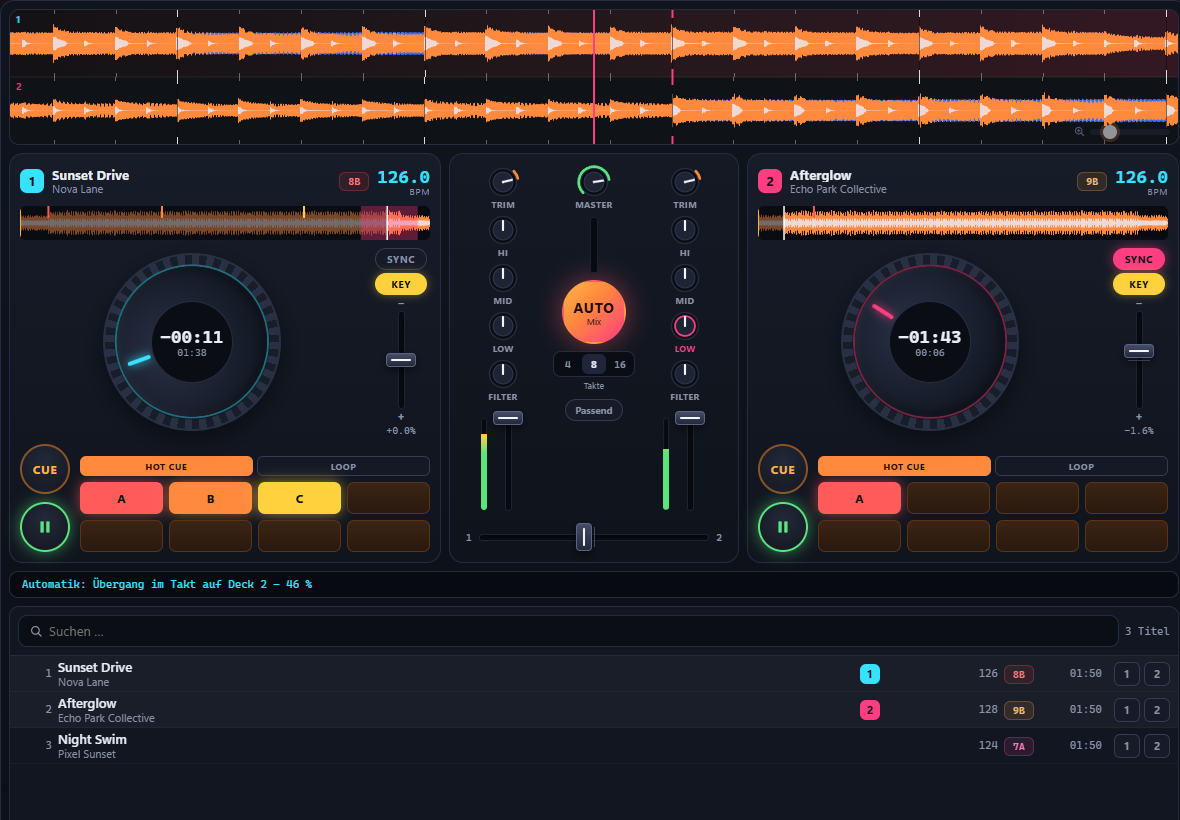
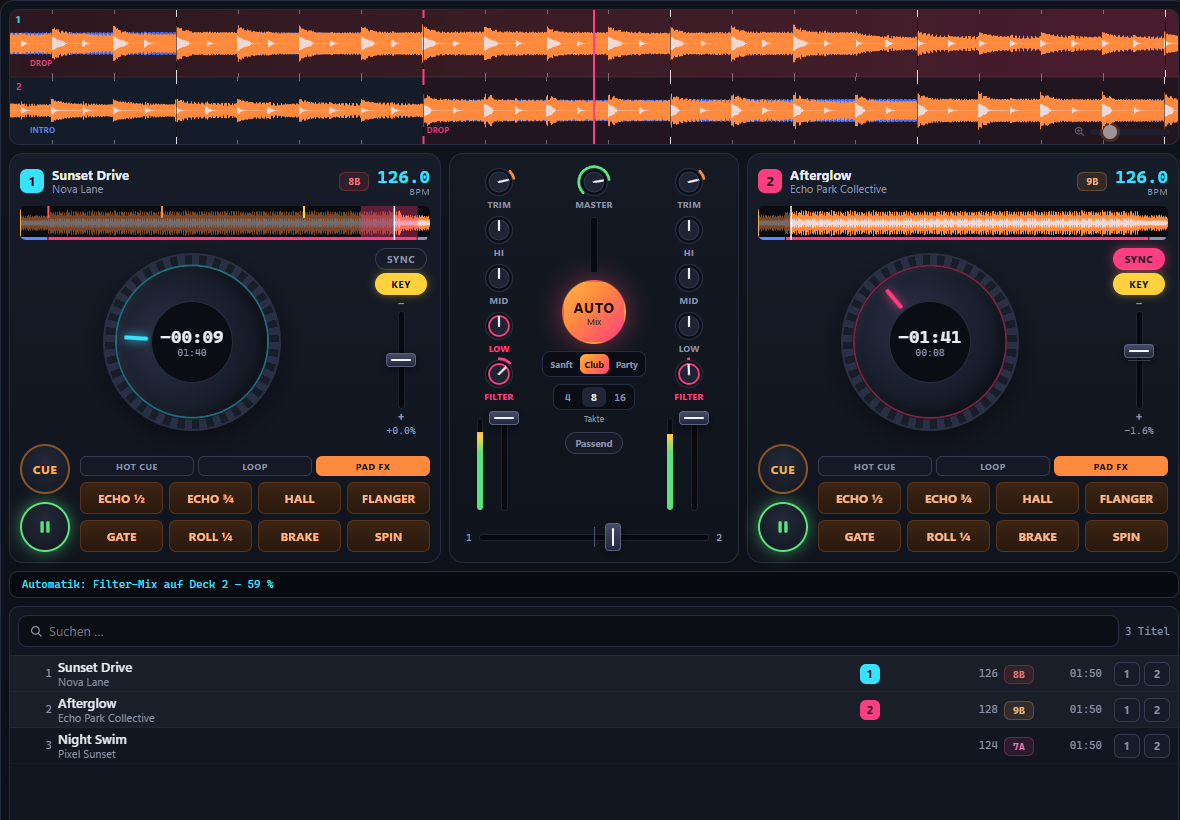
Docs: DJ-Pult mit Effekten und Übergangs-Stilen (v0.11.0)

diff --git a/README.md b/README.md
@@ -21,7 +21,7 @@ MIDI mit Spur-Ansicht, 10-Band-Equalizer, 16 Visualizer und Mini-Modus – im mo
 
 <p><img src="docs/breit.png" alt="Vintamp – breite Ansicht mit Seitenleiste, Senderliste und Player-Leiste" width="790"></p>
 
-**DJ-Pult mit Automatik** – zwei Decks, Mixer und Crossfader; auf **AUTO** mischt Vintamp deine Musikliste selbst: im Takt, mit Bass-Tausch, das Tempo gleitet danach zurück:
+**DJ-Pult mit Automatik** – zwei Decks, Mixer, Effekte und Crossfader; auf **AUTO** mischt Vintamp deine Musikliste selbst wie ein DJ: EQ- und Filter-Mix, Drop-Swap, Echo-Out, Loop-Roll, Brake … passend zu Stimmung, Tempo, Tonart und Aufbau der Titel:
 
 <p><img src="docs/dj.png" alt="Vintamp – DJ-Pult mit zwei Decks, Mixer und laufendem Übergang der Automatik" width="790"></p>
 
@@ -133,11 +133,18 @@ MIDI mit Spur-Ansicht, 10-Band-Equalizer, 16 Visualizer und Mini-Modus – im mo
   Kanal-Fadern mit Pegelanzeige, Crossfader und Master
 - Zwei mitlaufende, farbige Wellenformen (Bass/Mitten/Höhen) mit Beat-Raster, Takten und Phrasen; dazu je Deck
   eine Übersicht des ganzen Titels – Klick springt an die Stelle
+- **Song-Aufbau:** Vintamp erkennt Intro, Build-up, Drop, Break und Outro und zeigt sie farbig in den Wellenformen
+- **PAD FX:** Echo (½ oder ¾ Schlag), Hall, Flanger, Gate, Loop-Roll, Brake und Spinback – alles im Takt; Echo und
+  Hall klingen nach, der Loop-Roll springt danach dorthin, wo der Titel ohne ihn wäre
 - Tempo ändern ohne Mickymaus-Effekt (oder wie Vinyl, wenn KEY aus ist); Tempo, Beat-Raster und Tonart erkennt
   Vintamp selbst, die Lautstärke der Titel wird angeglichen
-- **AUTO:** mischt die Titel der Musikliste selbstständig – Ausstieg am Ende einer Phrase, Einstieg am ersten
-  Schlag des nächsten Titels, Schlag auf Schlag mit Bass-Tausch über 4, 8 oder 16 Takte; passen die Tempi nicht
-  zusammen, wird weich überblendet. Der Reihe nach oder **„Passend“** (ähnliches Tempo, harmonische Tonart)
+- **AUTO:** mischt die Titel der Musikliste selbstständig wie ein DJ und wählt je Übergang einen Stil:
+  - **EQ-Mix** (Höhen, Bässe und Mitten gestaffelt getauscht) und **Filter-Mix** – lang und Schlag auf Schlag
+  - **Drop-Swap:** der neue Titel läuft mit seinem Build-up unter dem alten, der Schnitt kommt genau auf seinen Drop
+  - **Echo-Out, Loop-Roll** (1 → ½ → ¼ → ⅛ Schlag), **Brake, Spinback, Hall-Fahne** – Schnitt auf die Phrase
+  - Stimmung **Sanft / Club / Party** bestimmt, welche Stile vorkommen; Tempo, Tonart und Aufbau entscheiden mit,
+    nie zweimal derselbe Stil hintereinander. Ausstieg bevorzugt am Beginn des Outros
+  - Übergangslänge 4, 8 oder 16 Takte; nächster Titel der Reihe nach oder **„Passend“** (Tempo, Tonart)
 - Läuft das Pult, pausiert der normale Player – und umgekehrt
 - Vorerst für lokale Audiodateien (MP3, FLAC, WAV, OGG, M4A …)
 
@@ -247,8 +254,8 @@ Was noch denkbar ist – ohne feste Reihenfolge:
   Windows-Medienfenster mit Cover, Last.fm-Scrobbling
 - **Weitergeben:** Musik an Chromecast- oder DLNA-Geräte im Heimnetz schicken
 - **Portable Version:** ohne Installation, z. B. vom USB-Stick
-- **DJ-Pult ausbauen:** Effekte (Echo, Hall, Flanger …), Sample-Pads zum Drauflegen, Vorhören über Kopfhörer
-  auf einem zweiten Ausgang, weitere Übergangsstile der Automatik, DJ-Controller per MIDI
+- **DJ-Pult ausbauen:** Sample-Pads zum Drauflegen (auch eigene Sounds), Vorhören über Kopfhörer auf einem
+  zweiten Ausgang, DJ-Controller per MIDI, Mix aufnehmen
 - **Mehrspur im Cutter:** mehrere Dateien markieren → jede wird eine eigene Spur, verschieben,
   übereinanderlegen und zu einer Datei zusammenmischen
 

diff --git a/README.en.md b/README.en.md
@@ -23,7 +23,7 @@ MIDI with a track view, 10-band equalizer, 16 visualizers and a mini mode – in
 
 <p><img src="docs/breit.png" alt="Vintamp – wide view with sidebar, station list and player bar" width="790"></p>
 
-**DJ deck with auto mix** – two decks, mixer and crossfader; press **AUTO** and Vintamp mixes your music list by itself: beat-matched, with bass swap, the tempo glides back afterwards:
+**DJ deck with auto mix** – two decks, mixer, effects and crossfader; press **AUTO** and Vintamp mixes your music list like a DJ: EQ and filter mixes, drop swap, echo out, loop roll, brake … to suit the mood, tempo, key and structure of the tracks:
 
 <p><img src="docs/dj.png" alt="Vintamp – DJ deck with two decks, mixer and an auto-mix transition in progress" width="790"></p>
 
@@ -135,11 +135,18 @@ MIDI with a track view, 10-band equalizer, 16 visualizers and a mini mode – in
   channel faders with level meters, crossfader and master
 - Two scrolling colour waveforms (bass/mids/highs) with beat grid, bars and phrases, plus an overview of the
   whole track per deck – click to jump there
+- **Track structure:** Vintamp detects intro, build-up, drop, break and outro and colours them in the waveforms
+- **PAD FX:** echo (½ or ¾ beat), reverb, flanger, gate, loop roll, brake and spinback – all on the beat; echo and
+  reverb trail off, the loop roll jumps to where the track would have been without it
 - Change the tempo without the Mickey Mouse effect (or like vinyl with KEY off); Vintamp detects tempo, beat
   grid and key itself and evens out the loudness of the tracks
-- **AUTO:** mixes the tracks of the music list on its own – out at the end of a phrase, in on the first beat
-  of the next track, beat-matched with bass swap over 4, 8 or 16 bars; if the tempos are too far apart it
-  crossfades smoothly. In list order or **“best fit”** (similar tempo, harmonic key)
+- **AUTO:** mixes the tracks of the music list on its own like a DJ, picking a style for each transition:
+  - **EQ mix** (highs, bass and mids swapped in stages) and **filter mix** – long and beat-matched
+  - **Drop swap:** the new track runs its build-up under the old one and the cut lands right on its drop
+  - **Echo out, loop roll** (1 → ½ → ¼ → ⅛ beat), **brake, spinback, reverb wash** – cut on the phrase
+  - The mood **Smooth / Club / Party** decides which styles appear; tempo, key and structure have a say too,
+    never the same style twice in a row. It prefers to leave at the start of the outro
+  - Transition length 4, 8 or 16 bars; next track in list order or **“best fit”** (tempo, key)
 - While the deck plays, the normal player pauses – and vice versa
 - For local audio files for now (MP3, FLAC, WAV, OGG, M4A …)
 
@@ -249,8 +256,8 @@ What else is possible – in no particular order:
   with cover, Last.fm scrobbling
 - **Casting:** send music to Chromecast or DLNA devices on your home network
 - **Portable version:** without installation, e.g. from a USB stick
-- **More for the DJ deck:** effects (echo, reverb, flanger …), sample pads to play on top, headphone
-  cueing on a second output, more auto-mix transition styles, DJ controllers via MIDI
+- **More for the DJ deck:** sample pads to play on top (your own sounds too), headphone cueing on a
+  second output, DJ controllers via MIDI, record your mix
 - **Multitrack in the cutter:** select several files → each becomes its own track, move them,
   layer them and mix them down into one file
 
